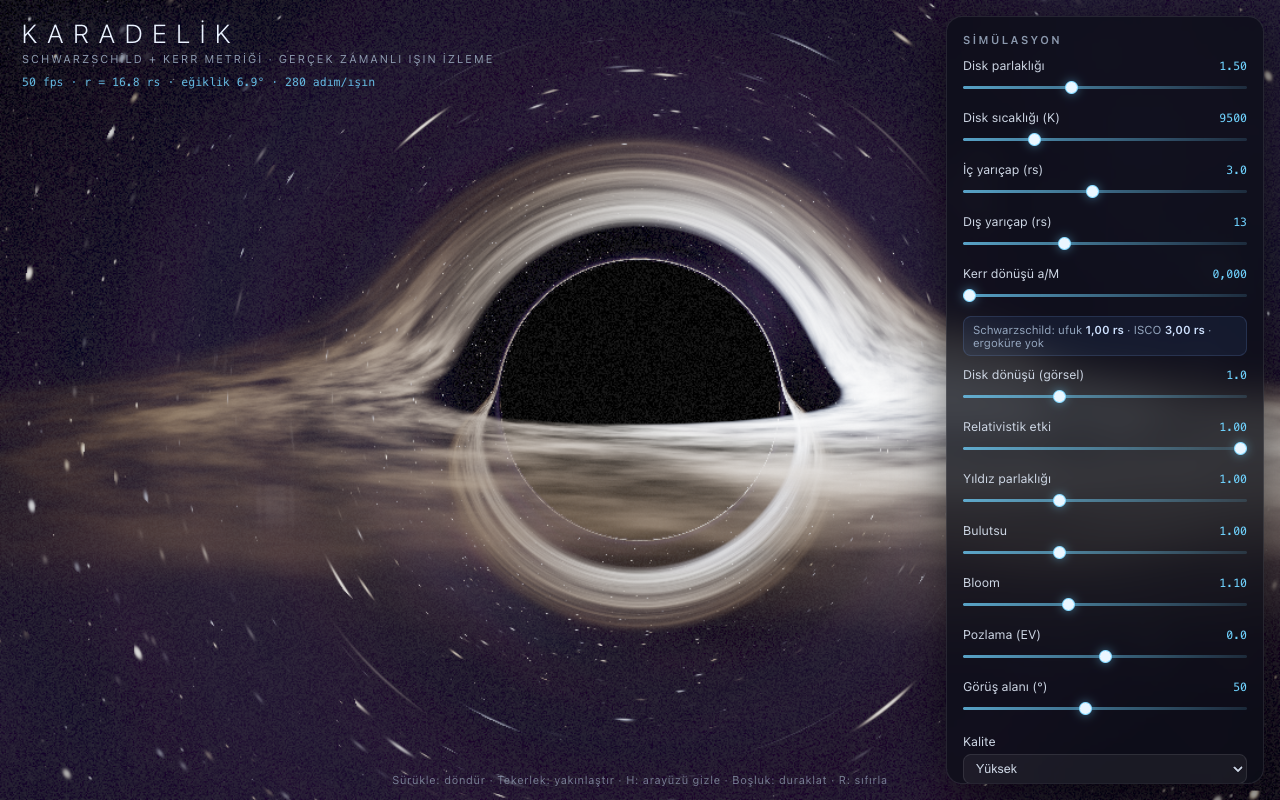
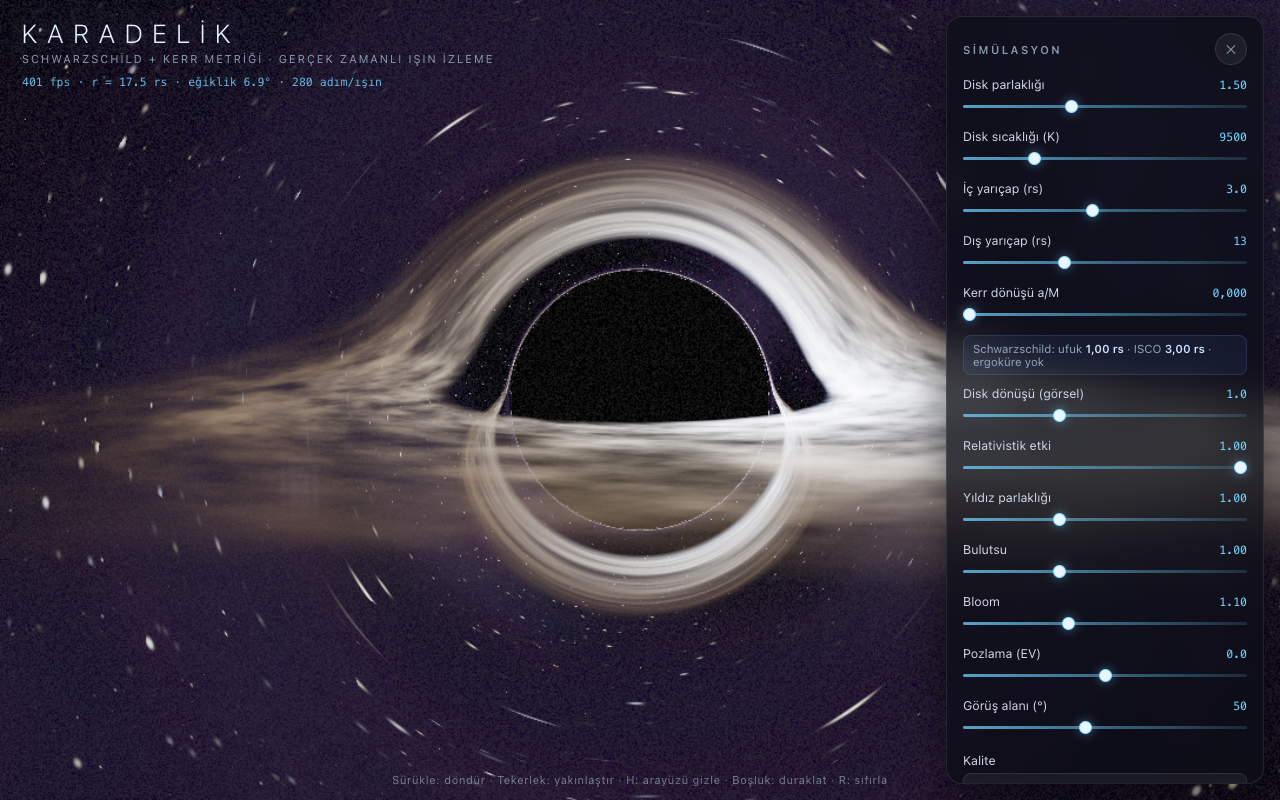
..
..

diff --git a/index.html b/index.html
@@ -3,7 +3,9 @@
 <head>
 <meta charset="utf-8">
 <meta name="viewport" content="width=device-width, initial-scale=1, viewport-fit=cover">
-<title>Karadelik — Schwarzschild Simülasyonu</title>
+<meta name="theme-color" content="#05070c">
+<meta name="description" content="Tarayıcıda gerçek zamanlı Schwarzschild ve Kerr (dönen) karadeliği simülasyonu: ışın izleme, kütleçekimsel mercek, disk, yolculuk modu.">
+<title>Karadelik — Kerr &amp; Schwarzschild simülasyonu</title>
 <style>
   :root{
     --fg: #cdd6e4;
@@ -12,12 +14,13 @@
     --panel-bg: rgba(9,12,20,.74);
     --line: rgba(255,255,255,.09);
   }
-  *{ box-sizing: border-box; }
+  *{ box-sizing: border-box; touch-action: manipulation; }
   html, body{ margin:0; padding:0; height:100%; background:#000; overflow:hidden; }
   body{
     font-family: ui-sans-serif, -apple-system, "SF Pro Text", "Segoe UI", system-ui, sans-serif;
     color: var(--fg);
     -webkit-font-smoothing: antialiased;
+    -webkit-tap-highlight-color: transparent;
   }
   canvas#c{
     position: fixed; inset: 0;
@@ -25,6 +28,8 @@
     display: block;
     touch-action: none;
     cursor: grab;
+    -webkit-user-select: none; user-select: none;
+    -webkit-touch-callout: none;
   }
   canvas#c.dragging{ cursor: grabbing; }
 
@@ -63,7 +68,10 @@
     position: fixed; top: 16px; right: 16px;
     width: min(318px, calc(100vw - 32px));
     max-height: calc(100vh - 32px);
+    max-height: calc(100dvh - 32px);
     overflow-y: auto;
+    overscroll-behavior: contain;
+    -webkit-overflow-scrolling: touch;
     padding: 16px;
     background: var(--panel-bg);
     border: 1px solid var(--line);
@@ -82,6 +90,20 @@
     text-transform: uppercase;
     color: var(--dim);
   }
+  .phead{ display:flex; align-items:center; justify-content:space-between; gap:10px; margin:0 0 12px; }
+  aside#panel .phead h2{ margin:0; }
+  #panelClose{
+    font: inherit; font-size: 13px; line-height: 1;
+    width: 32px; height: 32px; flex: 0 0 auto;
+    display: flex; align-items: center; justify-content: center;
+    color: var(--dim);
+    background: rgba(255,255,255,.055);
+    border: 1px solid var(--line);
+    border-radius: 50%;
+    cursor: pointer;
+    transition: background .15s, color .15s, border-color .15s;
+  }
+  #panelClose:hover{ background: rgba(111,211,255,.14); border-color: rgba(111,211,255,.4); color:#eaf6ff; }
   .row{ margin: 11px 0; }
   .row .lab{
     display: flex; justify-content: space-between; align-items: baseline;
@@ -207,7 +229,45 @@
     transition: opacity .25s;
   }
   body.ui-hidden #hint{ opacity: 0; }
-  @media (max-width: 640px){ #hint{ display:none; } }
+  @media (max-width: 900px) and (min-width: 641px){
+    header .sub{ display:none; }
+    header .stats{ max-width: calc(100vw - 370px); }
+  }
+  @media (max-width: 640px){
+    #hint{ display:none; }
+    header{ padding: 14px 16px; }
+    header h1{ font-size: 15px; letter-spacing: .3em; }
+    header .sub{ display:none; }
+    header .stats{ font-size: 10.5px; margin-top: 6px; max-width: calc(100vw - 110px); }
+    /* panel: telefonlarda alt sayfa (bottom sheet) */
+    aside#panel{
+      top: auto; left: 10px; right: 10px;
+      bottom: calc(10px + env(safe-area-inset-bottom, 0px));
+      width: auto;
+      max-height: 52vh;
+      max-height: 52dvh;
+      padding: 14px;
+      border-radius: 18px;
+    }
+    #panelToggle{
+      top: calc(12px + env(safe-area-inset-top, 0px));
+      right: 12px;
+      padding: 10px 14px;
+      font-size: 12px;
+    }
+    .row{ margin: 10px 0; }
+    .checks{ gap: 9px; }
+    #journey{
+      bottom: calc(10px + env(safe-area-inset-bottom, 0px));
+      width: calc(100vw - 20px);
+      max-height: 56vh;
+      max-height: 56dvh;
+      padding: 14px;
+    }
+    #journey .jtext{ font-size: 12px; margin: 2px 0 8px; }
+    #journey .jstats{ font-size: 11px; gap: 5px 14px; padding: 8px 10px; }
+    #fallback{ padding: 26px; font-size: 14px; }
+  }
 
   #btnJourney{
     display: block;
@@ -235,7 +295,10 @@
     transform: translateX(-50%);
     width: min(760px, calc(100vw - 32px));
     max-height: min(46vh, 420px);
+    max-height: min(46dvh, 420px);
     overflow-y: auto;
+    overscroll-behavior: contain;
+    -webkit-overflow-scrolling: touch;
     padding: 16px 18px 14px;
     background: var(--panel-bg);
     border: 1px solid rgba(111,211,255,.22);
@@ -337,7 +400,10 @@
 </header>
 
 <aside id="panel">
-  <h2>Simülasyon</h2>
+  <div class="phead">
+    <h2>Simülasyon</h2>
+    <button id="panelClose" aria-label="Paneli kapat" title="Paneli kapat">✕</button>
+  </div>
 
   <div class="row">
     <div class="lab"><span>Disk parlaklığı</span><span class="val" id="v-bright">1.50</span></div>
@@ -1134,11 +1200,12 @@ const QUALITY = {
 };
 
 // ---------- durum ----------
+const COARSE = matchMedia('(pointer: coarse)').matches;   // dokunmatik cihaz?
 const params = {
   bright: 1.5, temp: 9500, inner: 3.0, outer: 13, spin: 1.0,
   rel: 1.0, star: 1.0, neb: 1.0, bloom: 1.1, expo: 0.0, fov: 50,
   kerr: 0.0, ergo: false,
-  quality: 'high', autoRotate: true, paused: false,
+  quality: COARSE ? 'medium' : 'high', autoRotate: true, paused: false,
 };
 
 const cam = {
@@ -1273,11 +1340,20 @@ function blurPass(src, dst, dx, dy, radius) {
 
 // ---------- render döngüsü ----------
 let lastT = performance.now();
+let qCheckT = 0;       // uyarlanabilir kalite kontrol zamanlayıcısı
+let qLocked = false;   // kullanıcı/?q= kalite seçtiyse otomatik düşürme kapalı
+const QNEXT = { ultra: 'high', high: 'medium', medium: 'low' };
 function frame(now) {
   requestAnimationFrame(frame);
   const dt = clamp((now - lastT) / 1000, 0.0001, 0.05);
   lastT = now;
   fpsEMA += ((1 / dt) - fpsEMA) * 0.05;
+  // uyarlanabilir kalite: cihaz zorlanıyorsa (mobil) kademeli olarak düşür
+  qCheckT += dt;
+  if (qCheckT > 3.0) {
+    qCheckT = 0;
+    if (!qLocked && fpsEMA < 21 && QNEXT[params.quality]) setQuality(QNEXT[params.quality]);
+  }
 
   if (params.autoRotate && !dragging && !journey.active) cam.tYaw += dt * 0.045;
   if (!params.paused) simTime += dt;
@@ -1403,6 +1479,10 @@ canvas.addEventListener('wheel', (e) => {
   if (journey.active) return;
   cam.tDist = clamp(cam.tDist * Math.exp(e.deltaY * 0.0012), minCamDist(), 42);
 }, { passive: false });
+canvas.addEventListener('contextmenu', (e) => e.preventDefault());
+// iOS Safari: sayfanın kendisinin pinch-zoom yapmasını engelle (uygulama tam ekran)
+['gesturestart', 'gesturechange', 'gestureend'].forEach((ev) =>
+  document.addEventListener(ev, (e) => e.preventDefault()));
 
 function resetView() {
   cam.tYaw = 2.1;
@@ -1472,15 +1552,23 @@ document.getElementById('t-isco').addEventListener('change', iscoTick);
 document.getElementById('t-ergo').addEventListener('change', (e) => { params.ergo = e.target.checked; });
 
 const selQ = document.getElementById('s-quality');
-selQ.addEventListener('change', () => {
-  params.quality = selQ.value;
-  renderScale = QUALITY[params.quality].scale;
-  dprCap = QUALITY[params.quality].dprCap;
+function setQuality(v) {
+  params.quality = v;
+  selQ.value = v;
+  renderScale = QUALITY[v].scale;
+  dprCap = QUALITY[v].dprCap;
   resize();
+}
+selQ.addEventListener('change', () => {
+  qLocked = true;               // kullanıcı bilinçli seçti → otomatik düşürme yok
+  setQuality(selQ.value);
 });
 
 document.getElementById('panelToggle').addEventListener('click', () => {
   document.body.classList.remove('panel-hidden');
+});
+document.getElementById('panelClose').addEventListener('click', () => {
+  document.body.classList.add('panel-hidden');
 });
 
 // ---------- hazır ayarlar ----------
@@ -1726,6 +1814,7 @@ if (qs.has('q') && QUALITY[qs.get('q')]) {
   selQ.value = params.quality;
   renderScale = QUALITY[params.quality].scale;
   dprCap = QUALITY[params.quality].dprCap;
+  qLocked = true;               // URL'den seçildi → uyarlanabilir düşürme kapalı
 }
 if (qs.has('scale')) renderScale = clamp(parseFloat(qs.get('scale')) || renderScale, 0.1, 1.0);
 if (qs.has('steps')) QUALITY[params.quality].steps = clamp(parseInt(qs.get('steps')) || 280, 20, 600);
@@ -1750,6 +1839,14 @@ if (qs.has('journey')) {
     journey.done = jt >= JOURNEY_TOTAL;
   }
 }
+
+// panel / arayüz görünürlüğü: ?panel=0|1, ?ui=0
+// mobilde varsayılan: panel kapalı başlar, manzarayı kapatmasın
+const pPref = qs.get('panel');
+if (pPref === '0' || (pPref !== '1' && matchMedia('(max-width: 640px)').matches)) {
+  document.body.classList.add('panel-hidden');
+}
+if (qs.get('ui') === '0') document.body.classList.add('ui-hidden');
 
 // ---------- başlat ----------
 resize();

diff --git a/README.md b/README.md
@@ -6,7 +6,7 @@ kütleçekimsel kızıla kayma, Doppler ışınımı ve foton halkası GPU üzer
 (ray tracing) ile hesaplanır.
 
 Tek dosyadan oluşur: `index.html` — hiçbir bağımlılığı, derleme adımı veya internet
-bağlantısı yoktur.
+bağlantısı yoktur. Masaüstü ve mobil (dokunmatik) tarayıcılarda çalışır.
 
 ![Önizleme](onizleme.png)
 
@@ -101,12 +101,27 @@ bir son olarak modellenir.
 
 | Girdi | İşlev |
 |---|---|
-| Sürükle | Kamerayı döndür |
+| Sürükle (fare / parmak) | Kamerayı döndür |
 | Tekerlek / iki parmak | Yakınlaştır — uzaklaştır |
 | `H` | Arayüzü tamamen gizle / göster |
 | `P` | Kontrol panelini gizle / göster |
 | `Boşluk` | Simülasyon zamanını duraklat / devam |
 | `R` | Kamerayı sıfırla |
+
+### Mobil / dokunmatik
+
+![Mobil görünüm](mobil.png)
+
+- Telefonlarda sayfa **panel kapalı** açılır: karadelik tam ekran görünür. Sağ üstteki
+  **Simülasyon** düğmesi paneli alttan açılır bir sayfa (bottom sheet) olarak getirir;
+  panelin sağ üstündeki **✕** ile kapanır.
+- Tek parmakla sürükle → döndür, iki parmakla → yakınlaştır. Çift dokunma zoom'u ve
+  sayfa kaydırma, tam ekran deneyimi bozmasın diye kapatılmıştır.
+- İlk açılışta kalite dokunmatik cihazlarda **Orta**'dır; cihaz zorlanırsa kalite
+  otomatik olarak bir kademe düşürülür. Kaliteyi panelden elle seçersen otomatik
+  düşürme devre dışı kalır.
+- Çentik / güvenli alan (safe-area) boşlukları ve iOS adres çubuğu yükseklik
+  değişimleri (`dvh`) hesaba katılır.
 
 ## Simülasyon paneli
 
@@ -168,4 +183,5 @@ değerlerle (`0,7789 / 1,9552 rs`) 4 basamağa kadar örtüşür.
 - URL parametreleri (test/performans için):
   `?q=low|medium|high|ultra`, `?scale=0.5`, `?steps=120`, `?preset=gargantua|ekstremal`,
   `?kerr=0.9`, `?journey=35` (yolculuğu 35. saniyeden başlat),
-  `?dist=0.5&pitch=0.45` (kamera konumu)
+  `?dist=0.5&pitch=0.45` (kamera konumu), `?panel=0` (panel kapalı başlasın),
+  `?ui=0` (tüm arayüz gizli — vitrin/screenshot modu)
